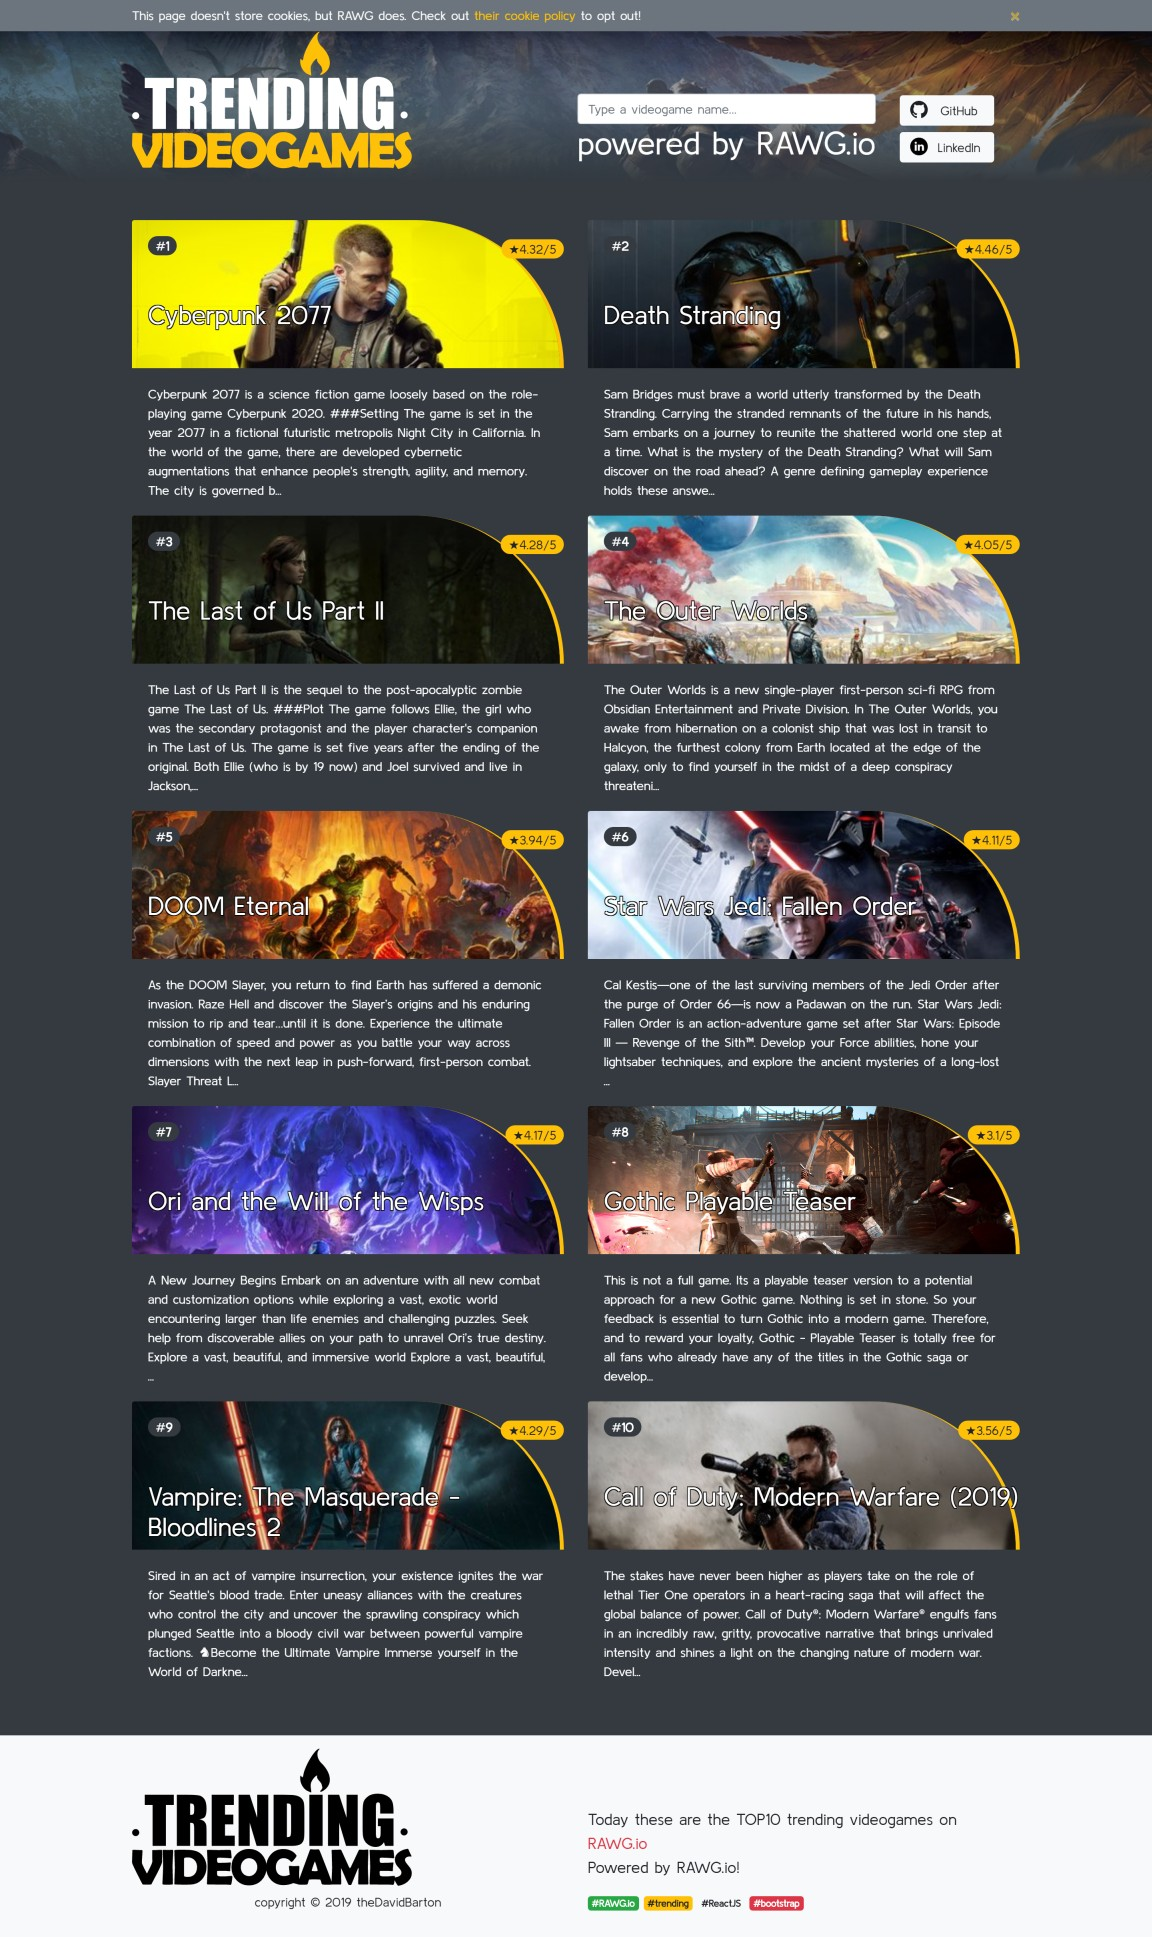
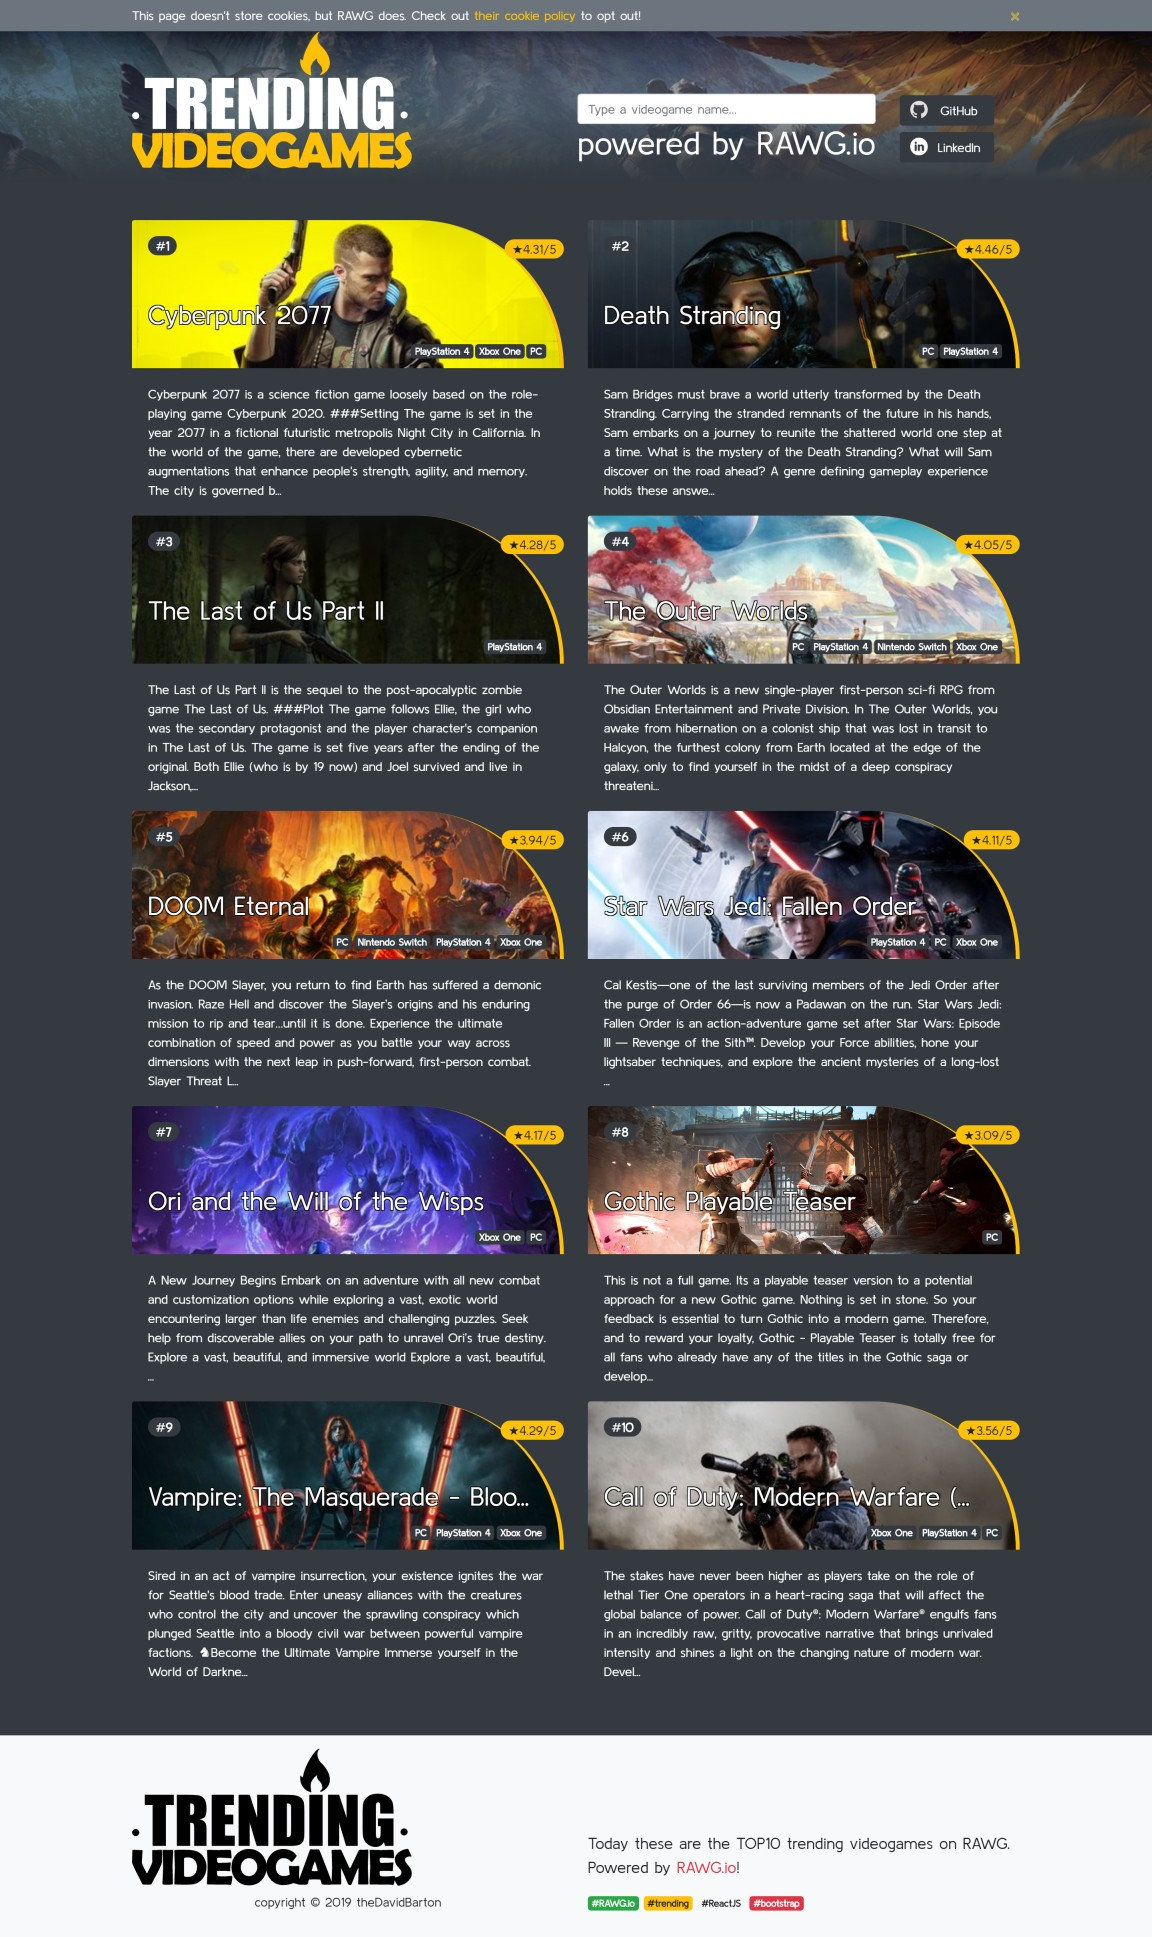
finetune app datasets (#6)
* finetune app data and sitebuild

* update screenshot

diff --git a/client/src/components/trendingVideogame.jsx b/client/src/components/trendingVideogame.jsx
@@ -41,6 +41,16 @@ class TrendingVideogame extends Component {
     return overview
   }
 
+  getPlatform = () => {
+    const platformArray = this.state.detailsData.platforms
+    const platform = platformArray.map((platformElement, index) => (
+      <div className='badge badge-dark platform-badge-margin' key={index + 1}>
+        {platformElement.platform.name}
+      </div>
+    ))
+    return platform
+  }
+
   getRating = () => {
     const rating = this.state.response.results[this.state.value].rating
     return rating
@@ -73,7 +83,14 @@ class TrendingVideogame extends Component {
               <div className='badge-pill badge-dark display-5 position-absolute badge-position'>
                 #<strong>{this.getRank()}</strong>
               </div>
-              <h2 className='position-absolute h2-position'>{this.getTitle()}</h2>
+              <h2 className='position-absolute h2-position'>
+                {this.getTitle().length >= 30
+                  ? this.getTitle().substring(0, 30) + '...'
+                  : this.getTitle().substring(0, 30)}
+              </h2>
+              <div className='position-absolute platform-badge-position'>
+                {this.state.detailsData ? this.getPlatform() : null}
+              </div>
               <div>
                 {this.state.detailsData ? <div>{this.getOverview().substring(0, 350) + '...'}</div> : <p>loading...</p>}
               </div>

diff --git a/client/src/components/header.jsx b/client/src/components/header.jsx
@@ -60,7 +60,7 @@ class Header extends Component {
                     href='https://github.com/theDavidBarton'
                     target='_blank'
                     rel='noopener noreferrer'
-                    className='btn btn-light social-link-style'>
+                    className='btn btn-dark social-link-style'>
                     <img className='float-left social-img-style' alt='github logo' src={github} />
                     GitHub
                   </a>
@@ -70,7 +70,7 @@ class Header extends Component {
                     href='https://linkedin.com/in/theDavidBarton/'
                     target='_blank'
                     rel='noopener noreferrer'
-                    className='btn btn-light float-left social-link-style'>
+                    className='btn btn-dark float-left social-link-style'>
                     <img className='float-left social-img-style' alt='linkedin logo' src={linkedin} />
                     LinkedIn
                   </a>

diff --git a/client/src/index.css b/client/src/index.css
@@ -22,6 +22,7 @@
 .social-img-style {
   margin-right: 0.5em;
   height: 22px;
+  filter: invert(100%);
 }
 
 /* videogameDetails */
@@ -74,6 +75,13 @@
   left: 20px;
   top: 20px;
 }
+.platform-badge-position {
+  right: 20px;
+  top: 150px;
+}
+.platform-badge-margin {
+  margin-right: 0.2em;
+}
 .right-badge {
   right: 0;
   top: 0;
@@ -87,6 +95,8 @@
   height: 185px;
 }
 .img-zoom img {
+  height: 100%;
+  min-height: 185px;
   display: block;
   position: relative;
   transition: all 1s ease-out;
